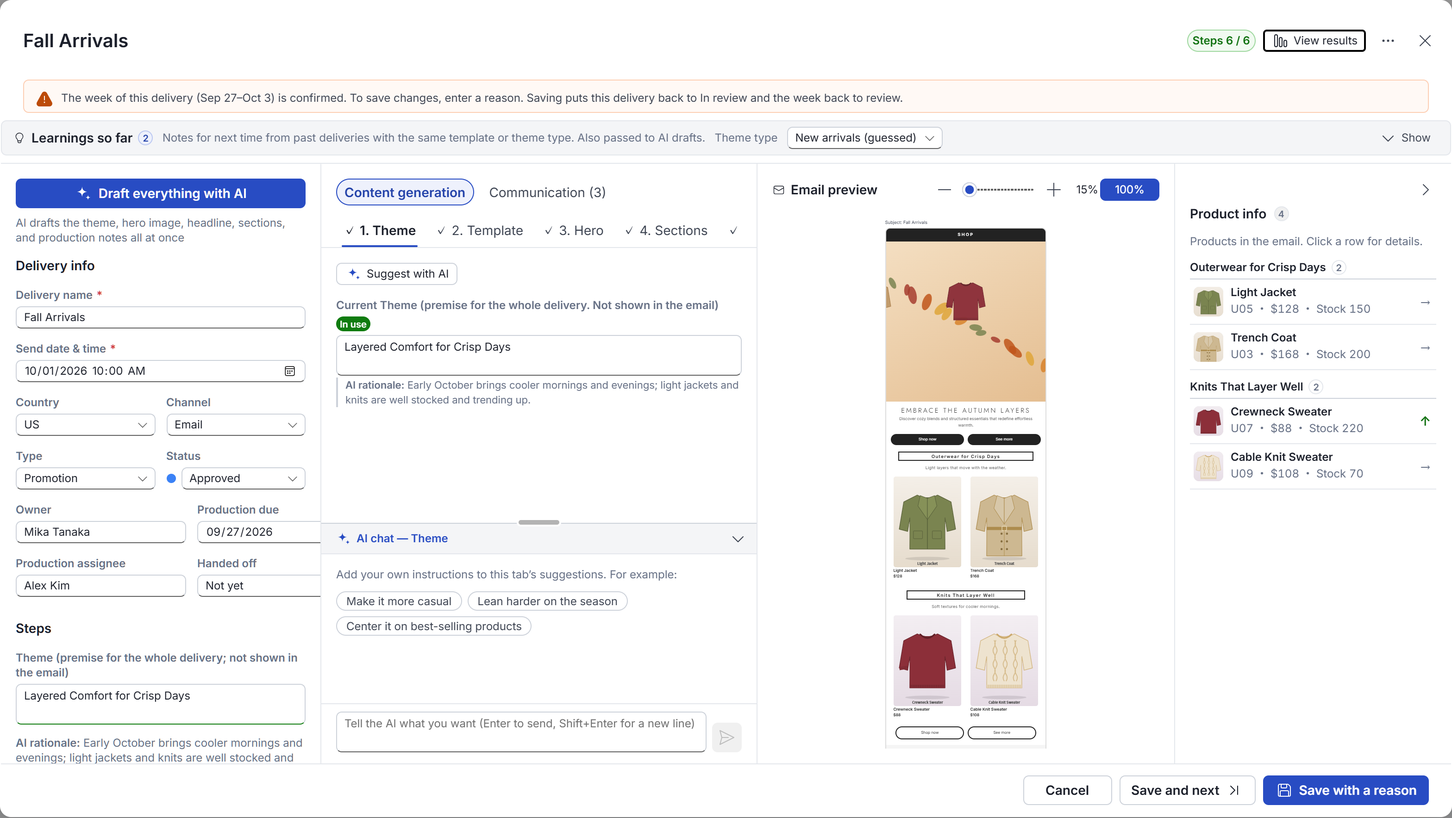
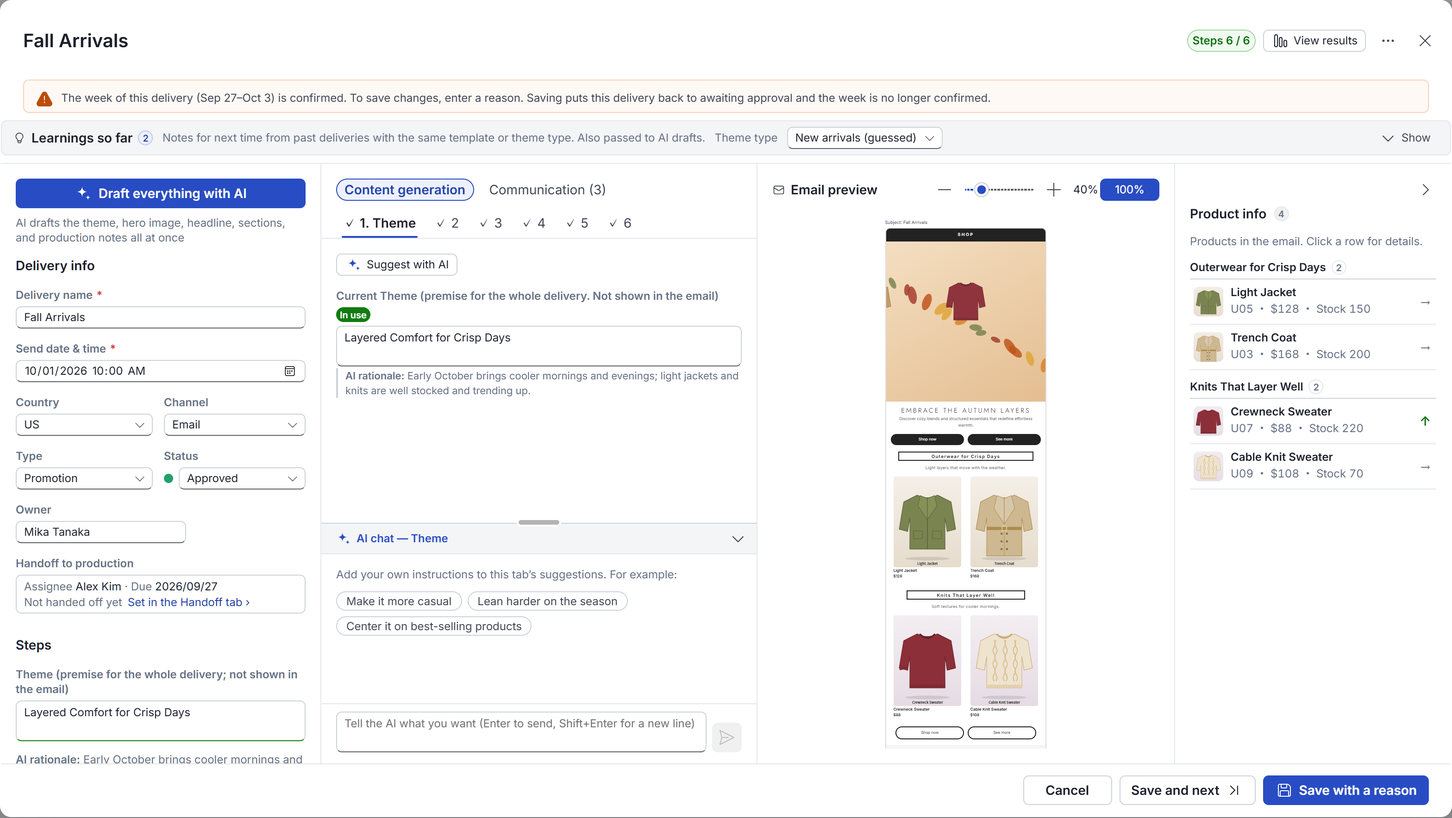
feat: コンテンツ生成のタブが幅に収まらないときは、開いているタブ以外を番号だけにする(FLOWS の F9)
- タブの列が幅に収まらなければ、開いているタブ以外を番号(①〜⑥)だけにし、名前はマウスを重ねると出す。収まる幅に戻れば名前つきに戻す
- 英語の「6. Production notes」「6. Timing & audience」を「6. Notes」「6. Timing」に短く
- 左の「制作への引き継ぎ」の要約で、引き継ぎ済みの日時が途中で折り返さないようにする
- 撮影の手順は、番号だけのタブも名前(aria-label)で探せるようにする。配信カードのスクリーンショットを撮り直す

diff --git a/src/ContentPane.tsx b/src/ContentPane.tsx
@@ -13,6 +13,7 @@ import {
   MessageBarBody,
   Tab,
   TabList,
+  Tooltip,
   makeStyles,
   mergeClasses,
   tokens,
@@ -1146,6 +1147,46 @@ export function ContentPane(props: Props) {
   })
 
   const mark = (filled: boolean, hasIdeas: boolean) => `${filled ? '✓ ' : ''}${hasIdeas ? '● ' : ''}`
+  // 工程のタブ(① 〜 ⑥)。狭い幅で横にスクロールしないよう、収まらないときは、開いているタブ以外を番号だけにして、名前はマウスを重ねると出す(FLOWS の F9)
+  const steps: { value: TopTab; full: string; short: string; done: boolean; ideas: boolean }[] = [
+    { value: 'theme', full: t('① テーマ', '1. Theme'), short: t('①', '1'), done: pr.theme, ideas: drafts.themeIdeas.length > 0 },
+    { value: 'template', full: t('② テンプレート', '2. Template'), short: t('②', '2'), done: pr.template, ideas: false },
+    ...(isPush
+      ? [
+          { value: 'notice' as TopTab, full: t('③ 通知', '3. Notification'), short: t('③', '3'), done: pr.hero, ideas: drafts.pushIdeas.length > 0 },
+          { value: 'message' as TopTab, full: t('④ メッセージ', '4. Message'), short: t('④', '4'), done: pr.sections, ideas: drafts.copyIdeas.length > 0 },
+          { value: 'links' as TopTab, full: t('⑤ リンク先', '5. Links'), short: t('⑤', '5'), done: pr.links, ideas: false },
+          { value: 'timing' as TopTab, full: t('⑥ 時刻・相手', '6. Timing'), short: t('⑥', '6'), done: pr.instructions, ideas: false },
+        ]
+      : [
+          { value: 'hero' as TopTab, full: t('③ ヒーロー', '3. Hero'), short: t('③', '3'), done: pr.hero, ideas: drafts.copyIdeas.length > 0 },
+          { value: 'sections' as TopTab, full: t('④ セクション', '4. Sections'), short: t('④', '4'), done: pr.sections, ideas: false },
+          { value: 'links' as TopTab, full: t('⑤ リンク先', '5. Links'), short: t('⑤', '5'), done: pr.links, ideas: false },
+          { value: 'instructions' as TopTab, full: t('⑥ 制作指示', '6. Notes'), short: t('⑥', '6'), done: pr.instructions, ideas: drafts.instructionIdeas.length > 0 },
+        ]),
+  ]
+  // タブの列が幅に収まらなければ番号だけ(compact)にする。収まる幅に戻ったら、名前つきに戻す(名前つきのときの幅を覚えておく)
+  const tabListRef = useRef<HTMLDivElement>(null)
+  const [compact, setCompact] = useState(false)
+  const fullTabsWidth = useRef(0)
+  useEffect(() => {
+    const el = tabListRef.current
+    if (!el || area !== 'make') return
+    const check = () => {
+      if (!compact) {
+        if (el.scrollWidth > el.clientWidth + 1) {
+          fullTabsWidth.current = el.scrollWidth
+          setCompact(true)
+        }
+      } else if (fullTabsWidth.current > 0 && el.clientWidth >= fullTabsWidth.current) {
+        setCompact(false)
+      }
+    }
+    check()
+    const ro = new ResizeObserver(check)
+    ro.observe(el)
+    return () => ro.disconnect()
+  }, [compact, area, isPush])
   // 引き継ぎ・タスクのタブに出す、未解決の質問・未完了のタスクの数(開いたときに数え、質問・タスクの欄で変わったら数え直す)
   const [openQuestions, setOpenQuestions] = useState(0)
   const [openTasks, setOpenTasks] = useState(0)
@@ -1215,28 +1256,24 @@ export function ContentPane(props: Props) {
         <Tab value="make">{t('コンテンツ生成', 'Content generation')}</Tab>
         <Tab value="talk">{`${t('やり取り', 'Communication')}${openTalk ? t(`(${openTalk})`, ` (${openTalk})`) : ''}`}</Tab>
       </TabList>
-      <TabList size="small" className={s.tabs} selectedValue={tab} onTabSelect={(_, d) => openTab(d.value as TopTab)}>
-        {area === 'make' && (
-        <>
-        <Tab value="theme" onClick={revealTab}>{`${mark(pr.theme, drafts.themeIdeas.length > 0)}${t('① テーマ', '1. Theme')}`}</Tab>
-        <Tab value="template" onClick={revealTab}>{`${mark(pr.template, false)}${t('② テンプレート', '2. Template')}`}</Tab>
-        {isPush ? (
-          <>
-            <Tab value="notice" onClick={revealTab}>{`${mark(pr.hero, drafts.pushIdeas.length > 0)}${t('③ 通知', '3. Notification')}`}</Tab>
-            <Tab value="message" onClick={revealTab}>{`${mark(pr.sections, drafts.copyIdeas.length > 0)}${t('④ メッセージ', '4. Message')}`}</Tab>
-            <Tab value="links" onClick={revealTab}>{`${mark(pr.links, false)}${t('⑤ リンク先', '5. Links')}`}</Tab>
-            <Tab value="timing" onClick={revealTab}>{`${mark(pr.instructions, false)}${t('⑥ 時刻・相手', '6. Timing & audience')}`}</Tab>
-          </>
-        ) : (
-          <>
-            <Tab value="hero" onClick={revealTab}>{`${mark(pr.hero, drafts.copyIdeas.length > 0)}${t('③ ヒーロー', '3. Hero')}`}</Tab>
-            <Tab value="sections" onClick={revealTab}>{`${mark(pr.sections, false)}${t('④ セクション', '4. Sections')}`}</Tab>
-            <Tab value="links" onClick={revealTab}>{`${mark(pr.links, false)}${t('⑤ リンク先', '5. Links')}`}</Tab>
-            <Tab value="instructions" onClick={revealTab}>{`${mark(pr.instructions, drafts.instructionIdeas.length > 0)}${t('⑥ 制作指示', '6. Production notes')}`}</Tab>
-          </>
-        )}
-        </>
-        )}
+      <TabList ref={tabListRef} size="small" className={s.tabs} selectedValue={tab} onTabSelect={(_, d) => openTab(d.value as TopTab)}>
+        {area === 'make' &&
+          steps.map((st) => {
+            const tabEl = (
+              <Tab key={st.value} value={st.value} onClick={revealTab} aria-label={compact ? st.full : undefined}>
+                {/* 番号だけのときも、開いているタブは名前を出す(どこにいるかが分かるように) */}
+                {`${mark(st.done, st.ideas)}${compact && tab !== st.value ? st.short : st.full}`}
+              </Tab>
+            )
+            // 番号だけのときは、名前をマウスを重ねる(キーボードで選ぶ)と出す
+            return compact ? (
+              <Tooltip key={st.value} content={st.full} relationship="description">
+                {tabEl}
+              </Tooltip>
+            ) : (
+              tabEl
+            )
+          })}
         {area === 'talk' && (
         <>
         <Tab value="handoff" onClick={revealTab}>

diff --git a/src/CardDetail.tsx b/src/CardDetail.tsx
@@ -365,6 +365,7 @@ const useStyles = makeStyles({
     cursor: 'pointer',
     ':hover': { backgroundColor: tokens.colorNeutralBackground1Hover },
   },
+  handoffItem: { whiteSpace: 'nowrap' },
   handoffLink: { marginLeft: '6px', color: tokens.colorBrandForegroundLink, whiteSpace: 'nowrap' },
   statusRow: { display: 'flex', alignItems: 'center', columnGap: '6px' },
   dot: { width: '10px', height: '10px', borderRadius: '50%', flexShrink: 0 },
@@ -1183,7 +1184,7 @@ export function CardDetail({ card, defaults, products, heroes, otherThemes, owne
                     </span>
                     <span>
                       {form.handedOffAt ? (
-                        <span className={styles.success}>{t('引き継ぎ済み ', 'Handed off ')}{new Date(form.handedOffAt).toLocaleString(locale(), { month: '2-digit', day: '2-digit', hour: '2-digit', minute: '2-digit' })}</span>
+                        <span className={mergeClasses(styles.success, styles.handoffItem)}>{t('引き継ぎ済み ', 'Handed off ')}{new Date(form.handedOffAt).toLocaleString(locale(), { month: '2-digit', day: '2-digit', hour: '2-digit', minute: '2-digit' })}</span>
                       ) : (
                         <span className={styles.caption}>{t('まだ引き継いでいない', 'Not handed off yet')}</span>
                       )}

diff --git a/scripts/feature-reasons.py b/scripts/feature-reasons.py
@@ -109,7 +109,7 @@ F = [
  ('F95','配信カード','取りやめ(理由を残し、消さずに薄く残す。アラート・確認・件数から外す)と、削除','取りやめた経緯を残しつつ、間違いで作ったものは消せるようにするため','【要望】取りやめは残し、間違いのときだけ削除したい',False),
  ('F96','アプリ','アプリの配信(通知のタイトル・本文・開く画面・送る相手)と、アプリ用のテンプレート・工程','アプリの通知は、メールと文言・見せ方・決めることが違うため','【文書】BACKLOG X6',False),
  ('F97','カレンダー','メールとアプリの見分け(アプリは角を丸めた枠。色は状態のまま)','ぱっと見で、メールとアプリを見分けるため。色は状態に使っているので、形で分ける','【要望】メールとアプリの区別がつきにくい',False),
- ('F98','配信カード','中ペインを「コンテンツ生成」と「やり取り」の 2 つの面に分ける(面ごとに最後のタブを覚える。やり取りの未対応の数を出す)','コンテンツを作る工程と、人とのやり取りが 1 列のタブに混ざり、見切れていたため。作る作業と、やり取りの作業を分けて、迷わないようにする','【要望】タブが多くて見切れる',False),
+ ('F98','配信カード','中ペインを「コンテンツ生成」と「やり取り」の 2 つの面に分ける(面ごとに最後のタブを覚える。やり取りの未対応の数を出す)。工程のタブは、幅に収まらなければ番号だけにする','コンテンツを作る工程と、人とのやり取りが 1 列のタブに混ざり、見切れていたため。作る作業と、やり取りの作業を分けて、迷わないようにする','【要望】タブが多くて見切れる',False),
  ('F99','アプリ','アプリのリンク先(通知を押したとき、メッセージのメイン画像・ボタンごとに開く画面。FCM の data の screen と、画面に渡す値で表す)','アプリの通知はメッセージボックスに届き、開く先は URL ではなくアプリの中の画面のため','【要望】アプリにもリンクを設定したい(FCM・screen)',False),
  ('F100','配信カード','保存して次へ(同じ週、または確認の一覧で選んだ項目の、次の配信を開く)','保存のたびに閉じて、次の配信をカレンダーで探し直す手間をなくすため','【文書】FLOWS C-1、BACKLOG X9',False),
  ('F101','カレンダー','絞り込みの「担当」(企画・制作の担当。質問の宛先・質問した人・タスクの担当も含む)','自分がかかわる配信だけを見る入り口にするため(制作担当にも)','【文書】FLOWS C-2、BACKLOG X10',False),

diff --git a/docs/FEATURE_REASONS.md b/docs/FEATURE_REASONS.md
@@ -121,7 +121,7 @@
 | F95 | 配信カード | 取りやめ(理由を残し、消さずに薄く残す。アラート・確認・件数から外す)と、削除 | 取りやめた経緯を残しつつ、間違いで作ったものは消せるようにするため | 【要望】取りやめは残し、間違いのときだけ削除したい | 1-作11, 3-作5, 21-作5 |
 | F96 | アプリ | アプリの配信(通知のタイトル・本文・開く画面・送る相手)と、アプリ用のテンプレート・工程 | アプリの通知は、メールと文言・見せ方・決めることが違うため | 【文書】BACKLOG X6 | 16-作1, 16-作2, 16-作3, 16-作4, 16-作5, 16-確3, 18-作1 |
 | F97 | カレンダー | メールとアプリの見分け(アプリは角を丸めた枠。色は状態のまま) | ぱっと見で、メールとアプリを見分けるため。色は状態に使っているので、形で分ける | 【要望】メールとアプリの区別がつきにくい | 1-確3 |
-| F98 | 配信カード | 中ペインを「コンテンツ生成」と「やり取り」の 2 つの面に分ける(面ごとに最後のタブを覚える。やり取りの未対応の数を出す) | コンテンツを作る工程と、人とのやり取りが 1 列のタブに混ざり、見切れていたため。作る作業と、やり取りの作業を分けて、迷わないようにする | 【要望】タブが多くて見切れる | 2-作4, 19-確3 |
+| F98 | 配信カード | 中ペインを「コンテンツ生成」と「やり取り」の 2 つの面に分ける(面ごとに最後のタブを覚える。やり取りの未対応の数を出す)。工程のタブは、幅に収まらなければ番号だけにする | コンテンツを作る工程と、人とのやり取りが 1 列のタブに混ざり、見切れていたため。作る作業と、やり取りの作業を分けて、迷わないようにする | 【要望】タブが多くて見切れる | 2-作4, 19-確3 |
 | F99 | アプリ | アプリのリンク先(通知を押したとき、メッセージのメイン画像・ボタンごとに開く画面。FCM の data の screen と、画面に渡す値で表す) | アプリの通知はメッセージボックスに届き、開く先は URL ではなくアプリの中の画面のため | 【要望】アプリにもリンクを設定したい(FCM・screen) | 16-作4 |
 | F100 | 配信カード | 保存して次へ(同じ週、または確認の一覧で選んだ項目の、次の配信を開く) | 保存のたびに閉じて、次の配信をカレンダーで探し直す手間をなくすため | 【文書】FLOWS C-1、BACKLOG X9 | 2-作5 |
 | F101 | カレンダー | 絞り込みの「担当」(企画・制作の担当。質問の宛先・質問した人・タスクの担当も含む) | 自分がかかわる配信だけを見る入り口にするため(制作担当にも) | 【文書】FLOWS C-2、BACKLOG X10 | 19-作3, 19-確3 |
@@ -173,7 +173,7 @@
 | 2-作1 | ✅ | 配信ごとに、状態を「検討中 → 承認済み → 確定」と進める | F02 状態の 4 段階(未起案 / 検討中 / 承認済み / 確定)と色分け<br>F08 配信情報の入力(配信名・日時・国・チャネル・部署・状態)<br>F69 週の状態(下書き / レビュー中 / 確定)と、「レビューに出す」「週を確定」<br>F73 承認と差し戻し(1 本ずつ・週まとめて)と、承認の履歴(誰が・いつ・何から何に) |
 | 2-作2 | ✅ | レビューする週を選んで、その週の配信を、まとめて見る(レビュー用の画面) | F68 週の表示(1 週間を縮小プレビューつきで並べる。見方は「商品」「進み具合」)<br>F102 月のカレンダーの各週に「週 ›」(その週の週表示へ移る)。計画の「CSV で書き出す」を、結果と同じ「データ ▾」のメニューに。凡例は色の点だけ(名前はマウスを重ねると) |
 | 2-作3 | 🟡 | 週の計画を、レビューに出す(「レビュー中」にする。関係者に知らせる) | F69 週の状態(下書き / レビュー中 / 確定)と、「レビューに出す」「週を確定」 |
-| 2-作4 | ✅ | 関係者が、配信ごと・商品ごとに、コメント(指摘・質問)を残す | F72 コメント(配信ごと・商品ごと。スレッドで返信し、対応済みにする)<br>F98 中ペインを「コンテンツ生成」と「やり取り」の 2 つの面に分ける(面ごとに最後のタブを覚える。やり取りの未対応の数を出す) |
+| 2-作4 | ✅ | 関係者が、配信ごと・商品ごとに、コメント(指摘・質問)を残す | F72 コメント(配信ごと・商品ごと。スレッドで返信し、対応済みにする)<br>F98 中ペインを「コンテンツ生成」と「やり取り」の 2 つの面に分ける(面ごとに最後のタブを覚える。やり取りの未対応の数を出す)。工程のタブは、幅に収まらなければ番号だけにする |
 | 2-作5 | ✅ | 指摘に対応して、修正したことを記録する(対応済みにする) | F72 コメント(配信ごと・商品ごと。スレッドで返信し、対応済みにする)<br>F100 保存して次へ(同じ週、または確認の一覧で選んだ項目の、次の配信を開く) |
 | 2-作6 | 🟡 | 承認者が、週の計画を、まとめて確定する | F69 週の状態(下書き / レビュー中 / 確定)と、「レビューに出す」「週を確定」 |
 | 2-作7 | ✅ | 確定したあとの変更を、制限する(変更するときは、理由を残して、もう一度レビューに出す) | F70 確定後の変更の制限(変えるときは理由を残し、週をレビューに戻す) |
@@ -383,7 +383,7 @@
 | 19-作5 | ✅ | 各ボタン・画像の、実際のリンク先 URL を、配信ごとに決める | F65 リンク先を工程 ⑤ にする。メールは URL と計測用のパラメーター(メイン画像・ボタンごと)。プレビューで、リンク先の場所と設定を見せる。すべての場所に行き先がそろったら完了 |
 | 19-確1 | ✅ | 制作指示の方針の切り口 | F61 制作指示の案(3 案・切り口つき)・採用 |
 | 19-確2 | ✅ | 制作に必要な商品情報(価格、説明、画像、売上・在庫の状況) | F47 商品の詳細(直近 4 週の販売数・在庫の週数・12 週の売上、週ごとのグラフ、MD の方針・販促計画、基本情報) |
-| 19-確3 | ✅ | 制作担当からの質問・確認の履歴 | F67 質問と返信(誰からでも、誰にでも。宛先・返信する人を選ぶ)、やり取りから AI がタスクの案を出し、採用したものを管理する<br>F98 中ペインを「コンテンツ生成」と「やり取り」の 2 つの面に分ける(面ごとに最後のタブを覚える。やり取りの未対応の数を出す)<br>F101 絞り込みの「担当」(企画・制作の担当。質問の宛先・質問した人・タスクの担当も含む) |
+| 19-確3 | ✅ | 制作担当からの質問・確認の履歴 | F67 質問と返信(誰からでも、誰にでも。宛先・返信する人を選ぶ)、やり取りから AI がタスクの案を出し、採用したものを管理する<br>F98 中ペインを「コンテンツ生成」と「やり取り」の 2 つの面に分ける(面ごとに最後のタブを覚える。やり取りの未対応の数を出す)。工程のタブは、幅に収まらなければ番号だけにする<br>F101 絞り込みの「担当」(企画・制作の担当。質問の宛先・質問した人・タスクの担当も含む) |
 
 ### 20. 配信後の振り返り(実装済み・一部 6 行 / 全 6 行)
 

diff --git a/docs/FLOWS.md b/docs/FLOWS.md
@@ -151,7 +151,7 @@
 | F6 | 計画の「CSV で書き出す」がボタン、結果は「データ ▾」のメニューで、形がそろっていない | — | 2-3・8-3 | 小 |
 | F7 | 凡例が、毎回見るものではないのに場所を取っている | — | 5-4 | 小 |
 | F8 | 振り返りの気づきを、配信ごとのメモ以外に残す場所がない。「前週」を開く近道がない | 1・8 | 3-2 | 中(機能の追加) |
-| F9 | 中ペインのタブ(コンテンツ生成の 6 つ)が、狭い幅で横にスクロールする | 3 | 1-2 | 小 |
+| F9 | 中ペインのタブ(コンテンツ生成の 6 つ)が、狭い幅で横にスクロールする → 2026-10-17 に解消(X18。収まらないときは番号だけにし、名前はマウスを重ねると出す) | 3 | 1-2 | 小 |
 | F10 | 確認の一覧の役割が分からない(問題のない項目も同じ大きさで並び、何をすればよいかが書かれていない。「週を確定」とつながっていない) | 4・5 | 4-2・5-4 | 中 |
 | F11 | 質問が「制作 → 企画」の一方向で、ほかの人どうしで聞けない | 4・6 | 1-2 | 中 |
 | F12 | 週の状態の帯が、ふつうの幅で 2 行に折り返す(「あなたの名前」から右が 2 行目に回る。「直すこと n 件」が加わって長くなった) | 4・5 | 5-4 | 小 |
@@ -212,11 +212,10 @@
 | 候補 | 内容 | メモ |
 |---|---|---|
 | C-7 | 週ごとの振り返りのメモ、結果の面の「前週」の近道 | 機能の追加。BACKLOG の振り返り(6 章)と一緒に |
-| F9 | コンテンツ生成のタブ(6 つ)が、狭い幅で横にスクロールする | 案はまだない |
 | 承認して次へ | 「保存して承認」「差し戻す」は、いまは閉じる。レビューで続けて承認できるようにするか | X9 で「使ってみてから」とした |
 | 案 B | 質問・タスク・コメントを 1 つの時系列の一覧にまとめる(データは同じ表 `card_notes`) | 案 A を使ってみてから判断、とした |
 
-**おすすめの順**: C-3〜C-6 は済み。残りは C-7(機能の追加。利用者と相談してから)と F9。C-6 は見た目だけ。C-7・案 B は機能の追加なので、利用者と相談してから。
+**おすすめの順**: C-3〜C-6・F9 は済み。残りは C-7(機能の追加。利用者と相談してから)。C-6 は見た目だけ。C-7・案 B は機能の追加なので、利用者と相談してから。
 
 ### 7.5 進め方の決まり
 

diff --git a/docs/FEATURES.md b/docs/FEATURES.md
@@ -67,7 +67,7 @@
 | ペイン | 内容 |
 |---|---|
 | ① 左: 配信情報 | 青い大きなボタン「**すべてAIで下書き**」。配信名、配信日時、国、チャネル、種別、ステータス、担当者。制作への引き継ぎ(担当・締め切り・引き継ぎ済み)は表示だけで、押すと「やり取り → 引き継ぎ」のタブが開く。「工程」として、テーマ・ヘッドライン・コピー・制作指示(それぞれ、AI の理由・切り口つき) |
-| ② 中: コンテンツ生成 / やり取り | 上の切り替えで、2 つの面を切り替える。**コンテンツ生成**: 6つの工程のタブ(メール: テーマ / テンプレート / ヒーロー / セクション / リンク先 / 制作指示。アプリ: テーマ / テンプレート / 通知 / メッセージ / リンク先 / 時刻・相手)。下半分に、**AIチャット**。**やり取り**: **引き継ぎ**(質問と返信を含む)・**タスク**・**コメント**のタブ(AIチャットはない)。切り替えには、未対応の質問・タスク・コメントの数が出る。面ごとに、最後に開いたタブを覚える |
+| ② 中: コンテンツ生成 / やり取り | 上の切り替えで、2 つの面を切り替える。**コンテンツ生成**: 6つの工程のタブ(メール: テーマ / テンプレート / ヒーロー / セクション / リンク先 / 制作指示。アプリ: テーマ / テンプレート / 通知 / メッセージ / リンク先 / 時刻・相手)。幅に収まらないときは番号(①〜⑥)だけになり、名前はマウスを重ねると出る。下半分に、**AIチャット**。**やり取り**: **引き継ぎ**(質問と返信を含む)・**タスク**・**コメント**のタブ(AIチャットはない)。切り替えには、未対応の質問・タスク・コメントの数が出る。面ごとに、最後に開いたタブを覚える |
 | ③ 右: プレビュー | メール / アプリ(通知とメッセージ)のプレビュー。倍率の変更(スライダー、「全体」ボタン) |
 | ④ 右端: 商品情報 | 掲載商品の参照用の一覧。**既定では開いている**(右上の「>」で、右端の細い帯に折りたためる) |
 

diff --git a/docs/BACKLOG.md b/docs/BACKLOG.md
@@ -148,6 +148,7 @@
 | X15 | ✅ | 導線の小さな近道 2 つ(FLOWS の C-4・C-5。2026-10-17)。月のカレンダーの各週の先頭に「週 ›」(その週の週表示へ。`Calendar.onOpenWeek`。結果の面でも)。計画の「CSV で書き出す」を、結果と同じ「データ ▾」のメニューに | — | なし |
 | X16 | ✅ | 凡例を小さくする(FLOWS の C-6。2026-10-17)。ツールバー右端の凡例を、ステータスの色の点だけにし、名前はマウスを重ねる(キーボードで選ぶ)と出す。週の表示では、その週の件数を点の横に出す | — | なし |
 | X17 | ✅ | 制作の担当・締め切り・引き継ぎ済みの入力を 1 か所に(FLOWS の C-3。2026-10-17)。入力は「やり取り → 引き継ぎ」のタブだけ(締め切りもここで決める)。左の配信情報は要約の表示だけで、押すとそのタブが開く(`ContentPane.tabRequest`) | — | なし |
+| X18 | ✅ | コンテンツ生成のタブが狭い幅で横にスクロールする(FLOWS の F9。2026-10-17)。タブの列が幅に収まらなければ番号(①〜⑥)だけにし、名前はマウスを重ねると出す(`ContentPane` の `compact`)。英語の「6. Production notes」「6. Timing & audience」は「6. Notes」「6. Timing」に短く | — | なし |
 
 (2026-10-12: プレビューは、配信カードのチャネルに合わせて 1 種類だけにした(メールとプッシュの切り替えをやめた)。X6 の前段)
 
